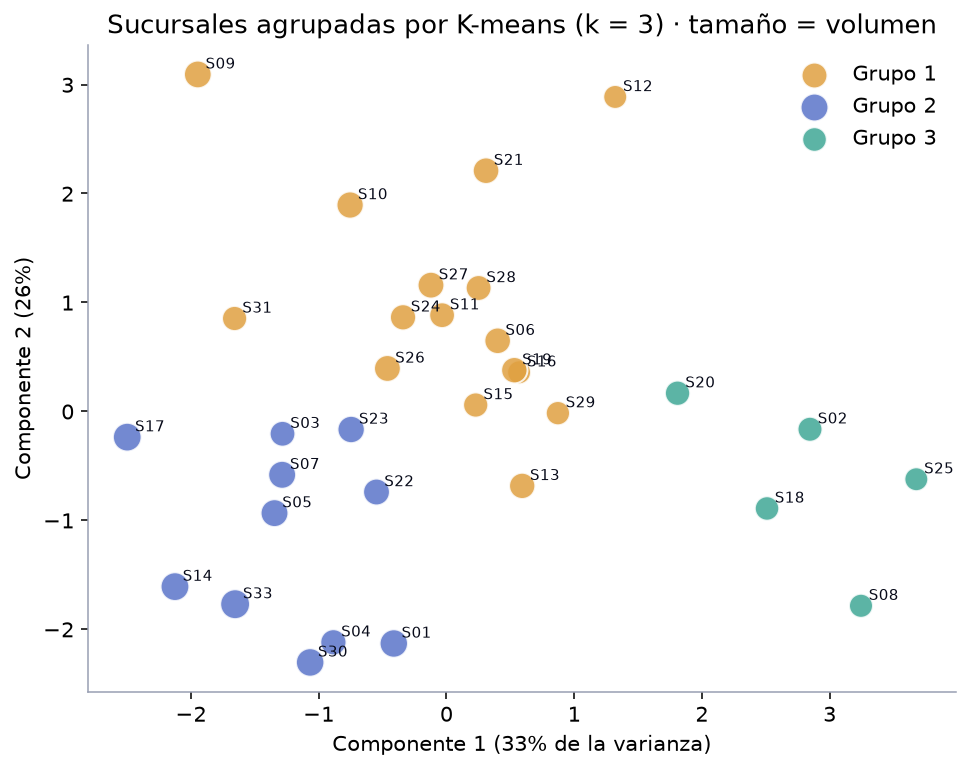
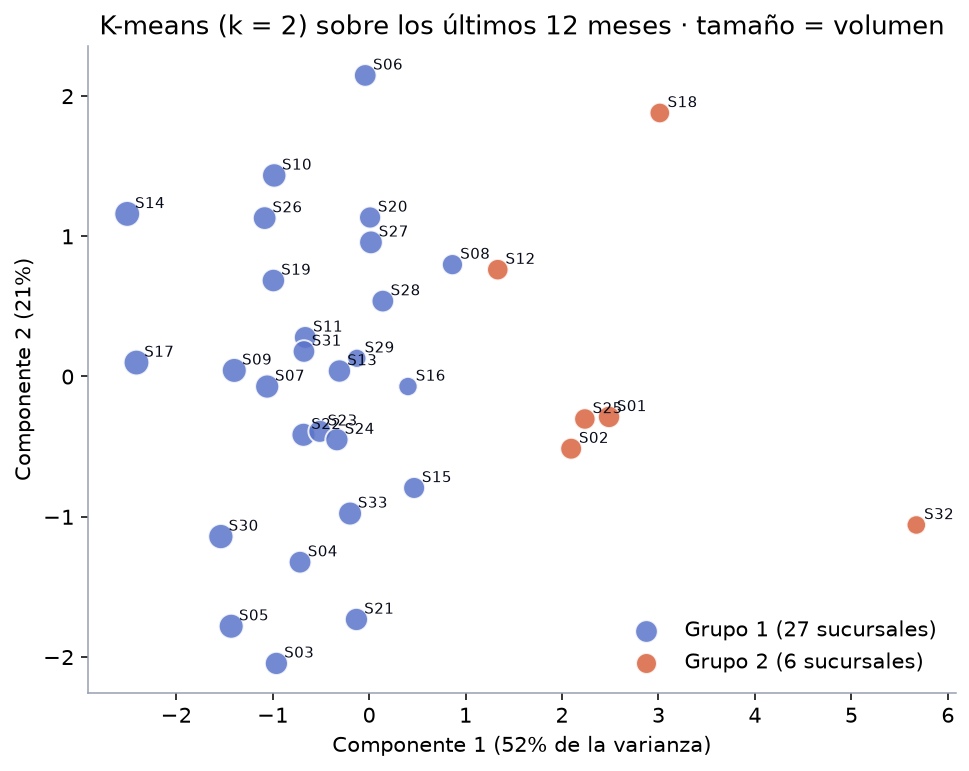
Analítica: K-means con la especificación del deck, hora por zona y evaluación con texto crudo
- 03_clusters.py: últimos 12 meses, 5 variables, k por silueta (k = 2, 6 de 33 sucursales con más quejas).
- 01_limpieza.py: hora y día en la zona horaria de cada región.
- 04_evaluacion_categorias.py: las reglas se evalúan con el texto tal como llega de Google (usan los saltos de línea).

diff --git a/analitica/03_clusters.py b/analitica/03_clusters.py
@@ -1,9 +1,11 @@
 """
-03 · Aprendizaje no supervisado: K-means sobre el perfil de las 33 sucursales.
+03 · Aprendizaje no supervisado: K-means sobre el perfil reciente de las sucursales.
 
-Pregunta: ¿hay «tipos» de sucursal que se parezcan en reputación más allá de su región?
-Cada sucursal se describe con variables agregadas de sus reseñas, se estandarizan
-(z-score, K-means usa distancia euclidiana) y k se elige con silueta + codo.
+Pregunta: ¿hay sucursales que se separen solas como «en riesgo», sin decirle al algoritmo cuáles?
+Ventana: últimos 12 meses (la distribución cambió mucho entre años; ver 01 y 02).
+Cinco variables por sucursal, estandarizadas (z-score) porque K-means mide distancias:
+  log10 del volumen · calificación media · % de quejas (1–2★ con texto) · % sin texto · % publicadas desde las 20:00
+k se elige con el coeficiente de silueta; k-means++ con 30 inicios y semilla fija.
 PCA solo sirve para dibujar los grupos en 2D.
 
 Entrada:  datos/resenas_limpias.csv
@@ -20,53 +22,33 @@ from sklearn.metrics import silhouette_score
 from sklearn.preprocessing import StandardScaler
 
 AQUI = Path(__file__).resolve().parent
-SEMILLA = 42
-MIN_RESENAS = 50
-NOCHE, GRIS = "#070A19", "#9AA0B4"
-COLORES = ["#E0A040", "#5B74C9", "#3FA796", "#C2577A", "#8A6FD1", "#6B7A90"]
+SEMILLA, INICIOS = 42, 30
+MIN_RESENAS = 15
+MESES = 12
+NOCHE, GRIS, AZUL, CORAL = "#070A19", "#9AA0B4", "#5B74C9", "#D9643F"
 plt.rcParams.update({"font.size": 11, "axes.spines.top": False, "axes.spines.right": False,
                      "axes.edgecolor": GRIS, "figure.dpi": 140, "savefig.bbox": "tight"})
 
 VARIABLES = {
-    "log_resenas": "Volumen (log de reseñas)",
+    "log_volumen": "Volumen (log10 de reseñas)",
     "media": "Calificación media",
-    "pct_negativas": "% negativas (≤2★)",
-    "pct_con_texto": "% con texto",
-    "pct_q_servicio": "% de quejas por servicio",
-    "pct_q_calidad": "% de quejas por calidad",
-    "tendencia": "Media últimos 12 meses − media previa",
+    "pct_quejas": "% de quejas (1–2★ con texto)",
+    "pct_sin_texto": "% sin texto",
+    "pct_noche": "% publicadas desde las 20:00",
 }
 
 
-M_PRIOR = 10  # misma idea que el Brillo (js/rosa.js): el prior pesa como 10 quejas
-
-
-def contraer(quejas: pd.DataFrame, col: str) -> pd.Series:
-    """Proporción con contracción bayesiana hacia la proporción global.
-    Una tienda con 1 queja de servicio no debe salir con «100 % servicio»."""
-    global_ = quejas[col].astype(float).mean()
-    g = quejas.groupby("location_id")[col]
-    n, k = g.size(), g.sum().astype(float)
-    return (k + M_PRIOR * global_) / (n + M_PRIOR) * 100
-
-
 def perfil(df: pd.DataFrame) -> pd.DataFrame:
-    hace12 = df["published_at"].max() - pd.DateOffset(months=12)
-    quejas = df[df["clf_es_queja"] == True]  # noqa: E712 (columna con nulos)
+    df = df.assign(queja=df["negativa"] & df["tiene_texto"], noche=df["hora"] >= 20)
     g = df.groupby("location_id")
     p = pd.DataFrame({
-        "tienda": g["tienda"].first(),
-        "region": g["region"].first(),
         "resenas": g.size(),
         "media": g["stars"].mean(),
-        "pct_negativas": g["negativa"].mean() * 100,
-        "pct_con_texto": g["tiene_texto"].mean() * 100,
-        "pct_q_servicio": contraer(quejas, "clf_servicio"),
-        "pct_q_calidad": contraer(quejas, "clf_calidad"),
-        "tendencia": df[df["published_at"] >= hace12].groupby("location_id")["stars"].mean()
-                     - df[df["published_at"] < hace12].groupby("location_id")["stars"].mean(),
+        "pct_quejas": g["queja"].mean() * 100,
+        "pct_sin_texto": (1 - g["tiene_texto"].mean()) * 100,
+        "pct_noche": g["noche"].mean() * 100,
     })
-    p["log_resenas"] = np.log10(p["resenas"])
+    p["log_volumen"] = np.log10(p["resenas"])
     return p
 
 
@@ -75,86 +57,83 @@ def main() -> None:
     (AQUI / "resultados").mkdir(exist_ok=True)
     df = pd.read_csv(AQUI / "datos/resenas_limpias.csv")
     df["published_at"] = pd.to_datetime(df["published_at"], utc=True, format="ISO8601")
+    fin = df["published_at"].max()
+    inicio = fin - pd.DateOffset(months=MESES)
+    df = df[df["published_at"] >= inicio]
 
     p = perfil(df)
     excluidas = p[p["resenas"] < MIN_RESENAS]
     p = p[p["resenas"] >= MIN_RESENAS].copy()
-    faltan = p[list(VARIABLES)].isna().sum()
-    p[list(VARIABLES)] = p[list(VARIABLES)].fillna(p[list(VARIABLES)].median())  # imputación por mediana
-    print(f"Sucursales: {len(p)} (excluidas por < {MIN_RESENAS} reseñas: {len(excluidas)}) · nulos imputados: {int(faltan.sum())}")
+    print(f"Ventana {inicio:%Y-%m-%d} → {fin:%Y-%m-%d} · sucursales: {len(p)} (excluidas: {len(excluidas)})")
 
     Z = StandardScaler().fit_transform(p[list(VARIABLES)])
 
-    # Selección de k
     ks = range(2, 7)
-    inercias, siluetas = [], []
-    for k in ks:
-        km = KMeans(k, n_init=50, random_state=SEMILLA).fit(Z)
-        inercias.append(km.inertia_)
-        siluetas.append(silhouette_score(Z, km.labels_))
-    k = list(ks)[int(np.argmax(siluetas))]
-    print("Silueta por k:", {kk: round(s, 3) for kk, s in zip(ks, siluetas)}, "→ k =", k)
+    modelos = {k: KMeans(k, n_init=INICIOS, random_state=SEMILLA).fit(Z) for k in ks}
+    siluetas = {k: silhouette_score(Z, m.labels_) for k, m in modelos.items()}
+    k = max(siluetas, key=siluetas.get)
+    print("Silueta:", {kk: round(s, 3) for kk, s in siluetas.items()}, "→ k =", k)
 
-    km = KMeans(k, n_init=50, random_state=SEMILLA).fit(Z)
-    p["grupo"] = km.labels_
-    # Ordenar grupos de mejor a peor calificación media para que el número signifique algo
+    p["grupo"] = modelos[k].labels_
     orden = p.groupby("grupo")["media"].mean().sort_values(ascending=False).index
     p["grupo"] = p["grupo"].map({g: i + 1 for i, g in enumerate(orden)})
     p.sort_values(["grupo", "media"], ascending=[True, False]).to_csv(AQUI / "datos/perfil_tiendas.csv")
 
     # Figuras
     fig, (a1, a2) = plt.subplots(1, 2, figsize=(9, 3.4))
-    a1.plot(list(ks), inercias, "o-", color=NOCHE); a1.set(title="Codo (inercia)", xlabel="k")
-    a2.plot(list(ks), siluetas, "o-", color=COLORES[0]); a2.axvline(k, color=GRIS, ls="--")
-    a2.set(title="Silueta (más alto = grupos más claros)", xlabel="k")
+    a1.plot(list(ks), [modelos[kk].inertia_ for kk in ks], "o-", color=NOCHE)
+    a1.set(title="Codo (inercia)", xlabel="k")
+    a2.plot(list(ks), [siluetas[kk] for kk in ks], "o-", color=AZUL)
+    a2.axhline(0.25, color=GRIS, ls=":", lw=1)
+    a2.axvline(k, color=GRIS, ls="--")
+    a2.set(title="Silueta (bajo 0.25 = estructura débil)", xlabel="k")
     fig.savefig(AQUI / "figuras/03_eleccion_k.png"); plt.close(fig)
 
     pca = PCA(2, random_state=SEMILLA).fit(Z)
     xy = pca.transform(Z)
+    colores = [AZUL, CORAL, "#3FA796", "#8A6FD1", "#E0A040", "#6B7A90"]
     fig, ax = plt.subplots(figsize=(8, 6))
     for g in sorted(p["grupo"].unique()):
         m = (p["grupo"] == g).to_numpy()
-        ax.scatter(xy[m, 0], xy[m, 1], s=40 + 60 * p["log_resenas"][m], color=COLORES[g - 1], alpha=.85,
-                   edgecolor="white", lw=1, label=f"Grupo {g}")
-    for (x, yv), nombre in zip(xy, p["tienda"]):
+        ax.scatter(xy[m, 0], xy[m, 1], s=30 + 50 * p["log_volumen"][m], color=colores[g - 1], alpha=.85,
+                   edgecolor="white", lw=1, label=f"Grupo {g} ({m.sum()} sucursales)")
+    for (x, yv), nombre in zip(xy, p.index):
         ax.annotate(nombre, (x, yv), fontsize=7.5, xytext=(4, 3), textcoords="offset points", color=NOCHE)
     v = pca.explained_variance_ratio_
     ax.set(xlabel=f"Componente 1 ({v[0]:.0%} de la varianza)", ylabel=f"Componente 2 ({v[1]:.0%})",
-           title=f"Sucursales agrupadas por K-means (k = {k}) · tamaño = volumen")
+           title=f"K-means (k = {k}) sobre los últimos {MESES} meses · tamaño = volumen")
     ax.legend(frameon=False)
     fig.savefig(AQUI / "figuras/03_clusters_pca.png"); plt.close(fig)
 
-    # Perfil de cada grupo en unidades originales
     perfil_g = p.groupby("grupo")[list(VARIABLES) + ["resenas"]].mean()
     perfil_g["sucursales"] = p.groupby("grupo").size()
-    cargas = pd.DataFrame(pca.components_.T, index=[VARIABLES[c] for c in VARIABLES], columns=["C1", "C2"])
-
-    filas = [f"| {g} | {int(r.sucursales)} | {r.resenas:,.0f} | {r.media:.2f} | {r.pct_negativas:.1f} | "
-             f"{r.pct_con_texto:.0f} | {r.pct_q_servicio:.0f} | {r.pct_q_calidad:.0f} | {r.tendencia:+.2f} |"
-             for g, r in perfil_g.iterrows()]
-    miembros = [f"- **Grupo {g}:** " + ", ".join(sub.sort_values('media', ascending=False)["tienda"])
-                for g, sub in p.groupby("grupo")]
+    cargas = pd.DataFrame(pca.components_.T, index=list(VARIABLES.values()), columns=["C1", "C2"])
+    filas = [f"| {g} | {int(r.sucursales)} | {r.resenas:,.0f} | {r.media:.2f} | {r.pct_quejas:.1f} | "
+             f"{r.pct_sin_texto:.0f} | {r.pct_noche:.0f} |" for g, r in perfil_g.iterrows()]
     reporte = [
         "# Reporte de clustering · K-means sobre sucursales",
         "",
-        f"- {len(p)} sucursales con ≥ {MIN_RESENAS} reseñas; {len(excluidas)} excluidas por poco volumen"
-        + (f" ({', '.join(excluidas['tienda'])})." if len(excluidas) else "."),
-        f"- {len(VARIABLES)} variables estandarizadas (z-score). Nulos imputados con la mediana: {int(faltan.sum())}.",
-        f"- k elegido por silueta máxima: **k = {k}** (silueta {max(siluetas):.3f}). "
-        "Silueta < 0.25 indica estructura débil; < 0.5, moderada.",
-        f"- PCA: los dos primeros componentes explican {v.sum():.0%} de la varianza (solo para graficar).",
+        f"- Ventana: {inicio:%Y-%m-%d} → {fin:%Y-%m-%d} (últimos {MESES} meses).",
+        f"- {len(p)} sucursales con ≥ {MIN_RESENAS} reseñas en la ventana; {len(excluidas)} excluidas.",
+        f"- {len(VARIABLES)} variables estandarizadas (z-score): " + ", ".join(VARIABLES.values()) + ".",
+        f"- k-means++ con {INICIOS} inicios por k y semilla {SEMILLA}. k elegido por silueta máxima: **k = {k}**.",
         "",
-        "## Perfil promedio de cada grupo (ordenados de mejor a peor media)",
+        "| k | Silueta | Inercia |",
+        "|---:|---:|---:|",
+        *[f"| {kk} | {siluetas[kk]:.3f} | {modelos[kk].inertia_:.0f} |" for kk in ks],
         "",
-        "| Grupo | Sucursales | Reseñas | Media ★ | % neg. | % texto | % q. servicio | % q. calidad | Tendencia |",
-        "|---|---:|---:|---:|---:|---:|---:|---:|---:|",
+        "## Perfil promedio de cada grupo",
+        "",
+        "| Grupo | Sucursales | Reseñas | Media ★ | % quejas | % sin texto | % desde 20:00 |",
+        "|---|---:|---:|---:|---:|---:|---:|",
         *filas,
         "",
         "## Integrantes",
         "",
-        *miembros,
+        *[f"- **Grupo {g}:** " + ", ".join(sub.sort_values("media", ascending=False).index)
+          for g, sub in p.groupby("grupo")],
         "",
-        "## Cargas del PCA",
+        "## Cargas del PCA (solo para graficar)",
         "",
         "| Variable | C1 | C2 |",
         "|---|---:|---:|",
@@ -162,12 +141,10 @@ def main() -> None:
         "",
         "## Advertencias",
         "",
-        "- K-means aquí es **exploratorio**: con ~30 puntos no hay «verdad» contra la cual validar.",
-        "- `% de quejas por servicio/calidad` viene de la clasificación guardada, que mezcla Gemini y el léxico local,"
-        " y se contrae hacia la media global con m = 10 (igual que el Brillo) porque varias tiendas tienen < 10 quejas.",
-        "- 2026 concentra más de la mitad de las reseñas con media muy alta (probable campaña de solicitud):"
-        " la `tendencia` refleja eso en todas las tiendas.",
-        "- Los grupos dependen de las variables elegidas; otra selección daría otros grupos.",
+        "- Exploratorio: con ~30 puntos no hay etiquetas contra las cuales validar los grupos.",
+        "- Las sucursales del grupo de menor media tienen pocas reseñas en la ventana: su señal es menos firme.",
+        "- Con k ≥ 3 la silueta cae bajo 0.25: lo defendible es una sola separación.",
+        "- Otra selección de variables o de ventana daría otros grupos.",
     ]
     (AQUI / "resultados/reporte_clusters.md").write_text("\n".join(reporte) + "\n", encoding="utf-8")
     print(perfil_g.round(2).to_string())

diff --git a/analitica/01_limpieza.py b/analitica/01_limpieza.py
@@ -20,6 +20,7 @@ import pandas as pd
 AQUI = Path(__file__).resolve().parent
 ZONA = "America/Mexico_City"
 ANONIMIZAR = True
+ZONA_POR_REGION = {"CUN": "America/Cancun", "TJ": "America/Tijuana"}
 SEMILLA_ANON = 2026
 BITACORA: list[tuple[str, str, int]] = []
 
@@ -117,8 +118,6 @@ def main() -> None:
     # 5. Variables derivadas (ingeniería de características)
     df["anio"] = df["published_at"].dt.year
     df["mes"] = df["published_at"].dt.strftime("%Y-%m")
-    df["hora"] = df["published_at"].dt.hour
-    df["dia_semana"] = df["published_at"].dt.day_of_week
     df["editada"] = df["updated_at"] > df["published_at"]
     anota("Reseñas editadas por el cliente", "la calificación vigente es la última", df["editada"].sum())
     df["respondida"] = df["reply_text"].notna()
@@ -146,6 +145,17 @@ def main() -> None:
     # 7. Enriquecer con la región (3FN en la base: la región vive en locations)
     df = df.merge(tiendas[["id", "nombre", "region"]].rename(columns={"id": "location_id", "nombre": "tienda"}),
                   on="location_id", how="left")
+
+    # Hora y día en la zona de cada sucursal (como en la app): dos regiones tienen huso propio.
+    utc = pd.to_datetime(df["published_at"].astype(str), utc=True, format="ISO8601")
+    df["hora"], df["dia_semana"] = 0, 0
+    for reg in df["region"].unique():
+        m = df["region"] == reg
+        local = utc[m].dt.tz_convert(ZONA_POR_REGION.get(reg, ZONA))
+        df.loc[m, "hora"] = local.dt.hour.to_numpy()
+        df.loc[m, "dia_semana"] = local.dt.day_of_week.to_numpy()
+    fuera_centro = df["region"].isin(list(ZONA_POR_REGION))
+    anota("Reseñas con hora en zona distinta a la del centro", "dos regiones con huso propio", fuera_centro.sum())
 
     # 8. Anonimización: la cadena se presenta de forma anónima en lo académico.
     #    Sucursales → «S01…» y regiones → «Región A…», con orden aleatorio fijo (semilla).

diff --git a/analitica/04_evaluacion_categorias.py b/analitica/04_evaluacion_categorias.py
@@ -15,7 +15,7 @@ Se comparan:
   2. Clasificación guardada en la base (lo que ve el usuario): mezcla de Gemini y del léxico.
 Intervalos de confianza al 95 % por bootstrap (2,000 remuestreos, semilla fija).
 
-Entrada:  datos/etiquetas_categorias.csv (privado), datos/resenas_limpias.csv
+Entrada:  datos/etiquetas_categorias.csv (privado), datos/resenas_limpias.csv, datos/crudo_resenas.csv
 Salida:   resultados/reporte_categorias.md, figuras/04_f1_categorias.png
 """
 from pathlib import Path
@@ -50,8 +50,10 @@ def f1_ic(y, p, rng):
 
 def main() -> None:
     et = pd.read_csv(AQUI / "datos/etiquetas_categorias.csv")
-    df = pd.read_csv(AQUI / "datos/resenas_limpias.csv", usecols=["id", "text", "stars", "clf_servicio", "clf_calidad", "clf_valor"])
-    m = et.merge(df.drop(columns="stars"), on="id", how="left")
+    df = pd.read_csv(AQUI / "datos/resenas_limpias.csv", usecols=["id", "clf_servicio", "clf_calidad", "clf_valor"])
+    # El léxico se evalúa con el texto CRUDO, como en producción: usa los saltos de línea para cortar frases.
+    crudo = pd.read_csv(AQUI / "datos/crudo_resenas.csv", usecols=["id", "text"])
+    m = et.merge(df, on="id", how="left").merge(crudo, on="id", how="left")
     perdidas = m["text"].isna().sum()
     m = m.dropna(subset=["text"])
     print(f"Muestra: {len(et)} · encontradas en la base: {len(m)} (dev {sum(m.split == 'dev')}, test {sum(m.split == 'test')})")

diff --git a/analitica/resultados/reporte_clusters.md b/analitica/resultados/reporte_clusters.md
@@ -1,39 +1,43 @@
 # Reporte de clustering · K-means sobre sucursales
 
-- 32 sucursales con ≥ 50 reseñas; 1 excluidas por poco volumen (S32).
-- 7 variables estandarizadas (z-score). Nulos imputados con la mediana: 1.
-- k elegido por silueta máxima: **k = 3** (silueta 0.225). Silueta < 0.25 indica estructura débil; < 0.5, moderada.
-- PCA: los dos primeros componentes explican 60% de la varianza (solo para graficar).
+- Ventana: 2025-11-17 → 2026-11-17 (últimos 12 meses).
+- 33 sucursales con ≥ 15 reseñas en la ventana; 0 excluidas.
+- 5 variables estandarizadas (z-score): Volumen (log10 de reseñas), Calificación media, % de quejas (1–2★ con texto), % sin texto, % publicadas desde las 20:00.
+- k-means++ con 30 inicios por k y semilla 42. k elegido por silueta máxima: **k = 2**.
 
-## Perfil promedio de cada grupo (ordenados de mejor a peor media)
+| k | Silueta | Inercia |
+|---:|---:|---:|
+| 2 | 0.397 | 106 |
+| 3 | 0.220 | 82 |
+| 4 | 0.201 | 70 |
+| 5 | 0.231 | 58 |
+| 6 | 0.293 | 48 |
 
-| Grupo | Sucursales | Reseñas | Media ★ | % neg. | % texto | % q. servicio | % q. calidad | Tendencia |
-|---|---:|---:|---:|---:|---:|---:|---:|---:|
-| 1 | 16 | 218 | 4.58 | 9.2 | 76 | 75 | 58 | +0.89 |
-| 2 | 11 | 650 | 4.54 | 7.9 | 61 | 81 | 47 | +0.98 |
-| 3 | 5 | 95 | 4.20 | 19.1 | 81 | 79 | 50 | +0.86 |
+## Perfil promedio de cada grupo
+
+| Grupo | Sucursales | Reseñas | Media ★ | % quejas | % sin texto | % desde 20:00 |
+|---|---:|---:|---:|---:|---:|---:|
+| 1 | 27 | 246 | 4.80 | 3.7 | 26 | 22 |
+| 2 | 6 | 64 | 4.17 | 17.0 | 13 | 17 |
 
 ## Integrantes
 
-- **Grupo 1:** S31, S09, S10, S12, S15, S27, S24, S26, S28, S11, S21, S16, S19, S29, S13, S06
-- **Grupo 2:** S17, S14, S03, S22, S05, S04, S07, S30, S23, S33, S01
-- **Grupo 3:** S20, S18, S02, S08, S25
+- **Grupo 1:** S29, S09, S31, S17, S26, S14, S07, S04, S19, S16, S30, S11, S10, S05, S27, S06, S22, S20, S23, S28, S13, S15, S21, S33, S03, S24, S08
+- **Grupo 2:** S12, S02, S01, S25, S18, S32
 
-## Cargas del PCA
+## Cargas del PCA (solo para graficar)
 
 | Variable | C1 | C2 |
 |---|---:|---:|
-| Volumen (log de reseñas) | -0.50 | -0.20 |
-| Calificación media | -0.52 | +0.32 |
-| % negativas (≤2★) | +0.60 | -0.18 |
-| % con texto | +0.31 | +0.35 |
-| % de quejas por servicio | -0.07 | -0.53 |
-| % de quejas por calidad | +0.04 | +0.65 |
-| Media últimos 12 meses − media previa | -0.12 | -0.02 |
+| Volumen (log10 de reseñas) | -0.47 | -0.08 |
+| Calificación media | -0.56 | +0.06 |
+| % de quejas (1–2★ con texto) | +0.57 | -0.07 |
+| % sin texto | -0.33 | -0.58 |
+| % publicadas desde las 20:00 | -0.19 | +0.80 |
 
 ## Advertencias
 
-- K-means aquí es **exploratorio**: con ~30 puntos no hay «verdad» contra la cual validar.
-- `% de quejas por servicio/calidad` viene de la clasificación guardada, que mezcla Gemini y el léxico local, y se contrae hacia la media global con m = 10 (igual que el Brillo) porque varias tiendas tienen < 10 quejas.
-- 2026 concentra más de la mitad de las reseñas con media muy alta (probable campaña de solicitud): la `tendencia` refleja eso en todas las tiendas.
-- Los grupos dependen de las variables elegidas; otra selección daría otros grupos.
+- Exploratorio: con ~30 puntos no hay etiquetas contra las cuales validar los grupos.
+- Las sucursales del grupo de menor media tienen pocas reseñas en la ventana: su señal es menos firme.
+- Con k ≥ 3 la silueta cae bajo 0.25: lo defendible es una sola separación.
+- Otra selección de variables o de ventana daría otros grupos.

diff --git a/analitica/README.md b/analitica/README.md
@@ -9,7 +9,7 @@ datos reales y responden dos preguntas con aprendizaje automático. Los datos (`
 | 0 | `00_exportar.py` | Descarga reseñas y tiendas por la API REST, **sin datos personales** | `datos/crudo_*.csv` |
 | 1 | `01_limpieza.py` | Validación, fechas a hora local, normalización de texto, idioma, **anonimización de sucursales y regiones**, banderas de calidad, variables derivadas, aplanado del JSONB | `datos/resenas_limpias.csv`, `resultados/reporte_limpieza.md` |
 | 2 | `02_modelo.py` | **Supervisado:** ¿reseña negativa (≤2★) por su texto? Léxico de Étoile vs. Naive Bayes vs. regresión logística (TF-IDF) | `resultados/reporte_modelo.md`, `figuras/02_*.png` |
-| 3 | `03_clusters.py` | **No supervisado:** K-means sobre el perfil de las sucursales, k por silueta, PCA para graficar | `resultados/reporte_clusters.md`, `figuras/03_*.png` |
+| 3 | `03_clusters.py` | **No supervisado:** K-means sobre el perfil de las sucursales en los últimos 12 meses (5 variables), k por silueta, PCA para graficar | `resultados/reporte_clusters.md`, `figuras/03_*.png` |
 | 4 | `04_evaluacion_categorias.py` | **Evaluación con etiquetas:** ¿acierta étoile de qué se queja el cliente (servicio, calidad, precio)? F1 con IC 95 % por bootstrap | `resultados/reporte_categorias.md`, `figuras/04_*.png` |
 
 ```bash

diff --git a/analitica/resultados/reporte_limpieza.md b/analitica/resultados/reporte_limpieza.md
@@ -16,6 +16,7 @@ Generado por `01_limpieza.py`. Rango: 2013-09-07 → 2026-11-17.
 | Texto largo repetido en la misma tienda | posible duplicado o spam; bandera texto_repetido | 62 |
 | Reseñas editadas por el cliente | la calificación vigente es la última | 1,098 |
 | Reseñas con texto sin clasificación guardada | backlog pendiente del clasificador | 3,099 |
+| Reseñas con hora en zona distinta a la del centro | dos regiones con huso propio | 597 |
 | Sucursales y regiones anonimizadas | la cadena se presenta de forma anónima | 33 |
 | Filas en el dataset limpio | una por reseña | 11,148 |
 

diff --git a/analitica/resultados/reporte_categorias.md b/analitica/resultados/reporte_categorias.md
@@ -9,7 +9,7 @@
 
 | Categoría | Método | n | Precisión | Recall | F1 | IC 95 % | VP/FP/FN |
 |---|---|---:|---:|---:|---:|---:|---:|
-| Servicio / espera | Léxico v2 | 91 | 0.89 | 0.84 | **0.86** | 0.77–0.94 | 32/4/6 |
+| Servicio / espera | Léxico v2 | 91 | 0.91 | 0.84 | **0.88** | 0.78–0.95 | 32/3/6 |
 | Servicio / espera | Guardada en la base | 73 | 0.78 | 0.71 | **0.75** | 0.62–0.85 | 25/7/10 |
 | Calidad del producto | Léxico v2 | 91 | 0.55 | 0.65 | **0.59** | 0.38–0.77 | 11/9/6 |
 | Calidad del producto | Guardada en la base | 73 | 0.45 | 0.87 | **0.59** | 0.39–0.75 | 13/16/2 |
